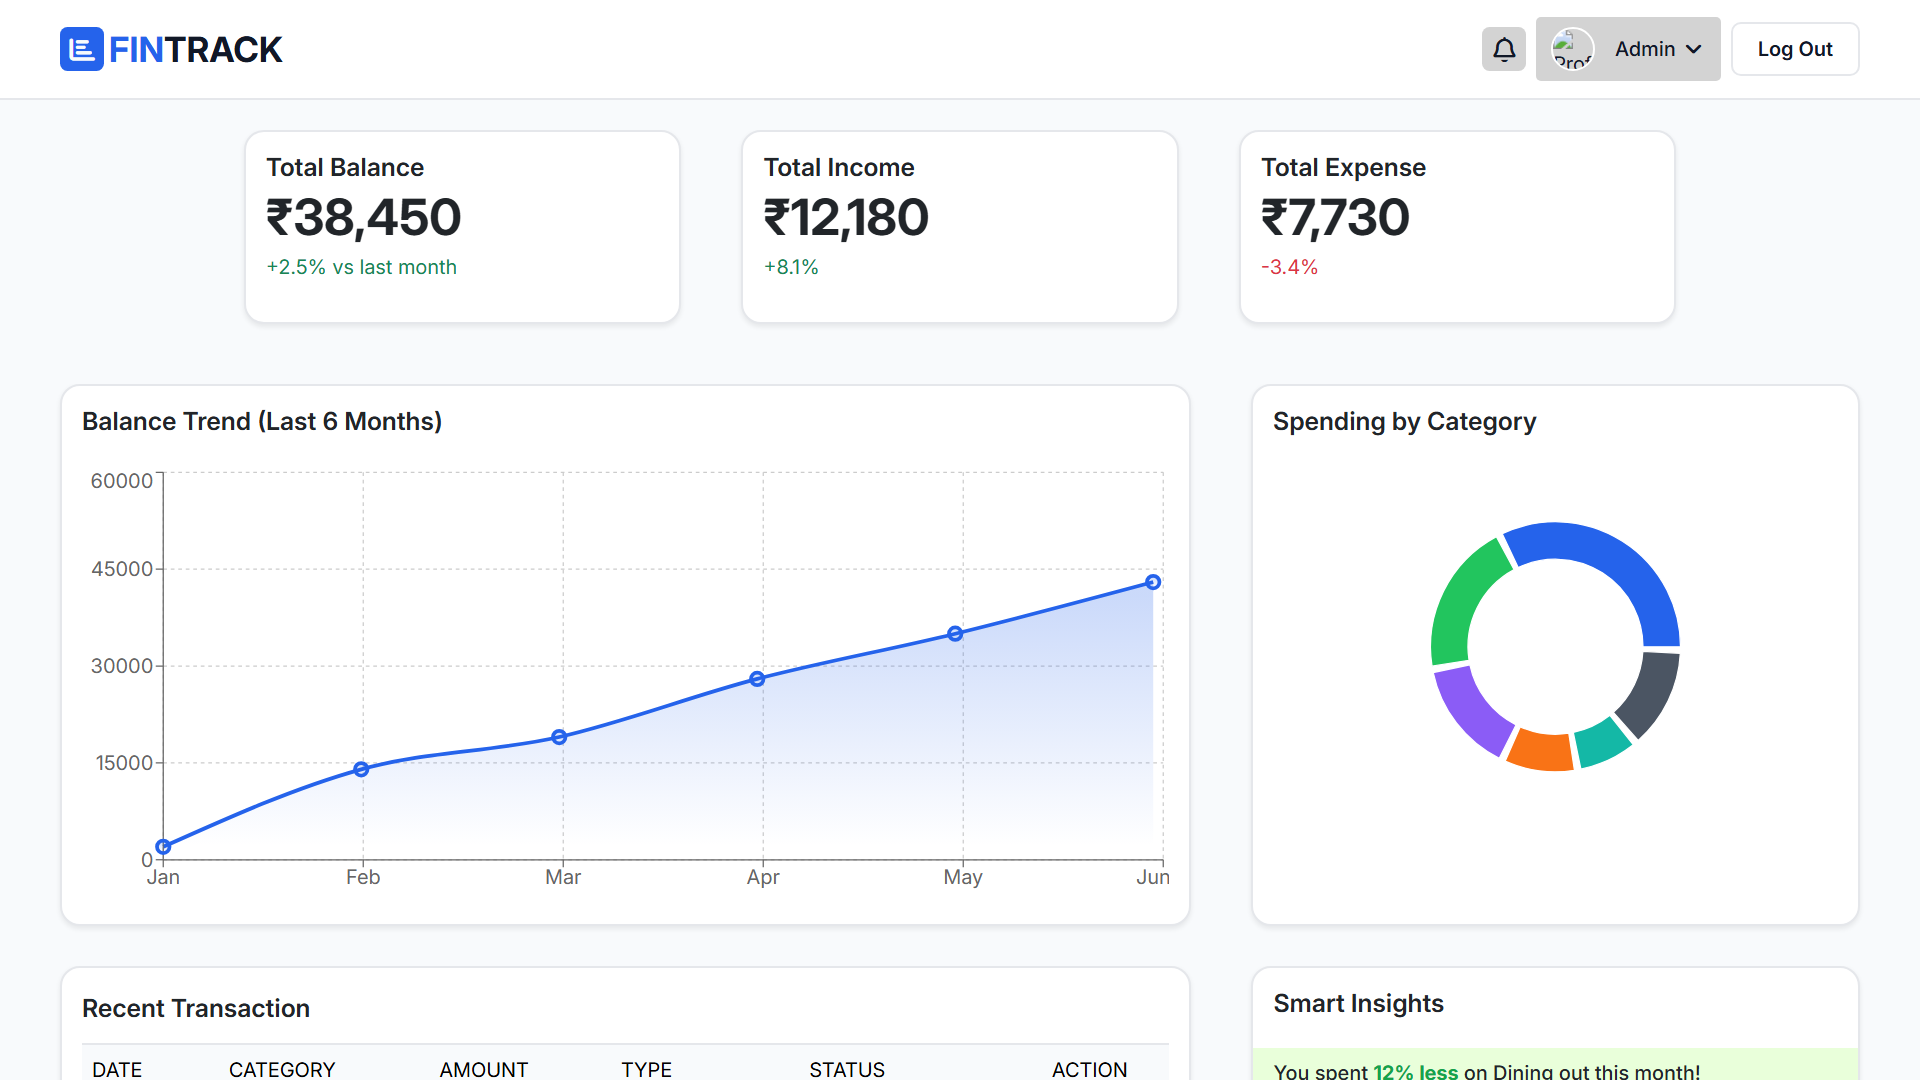
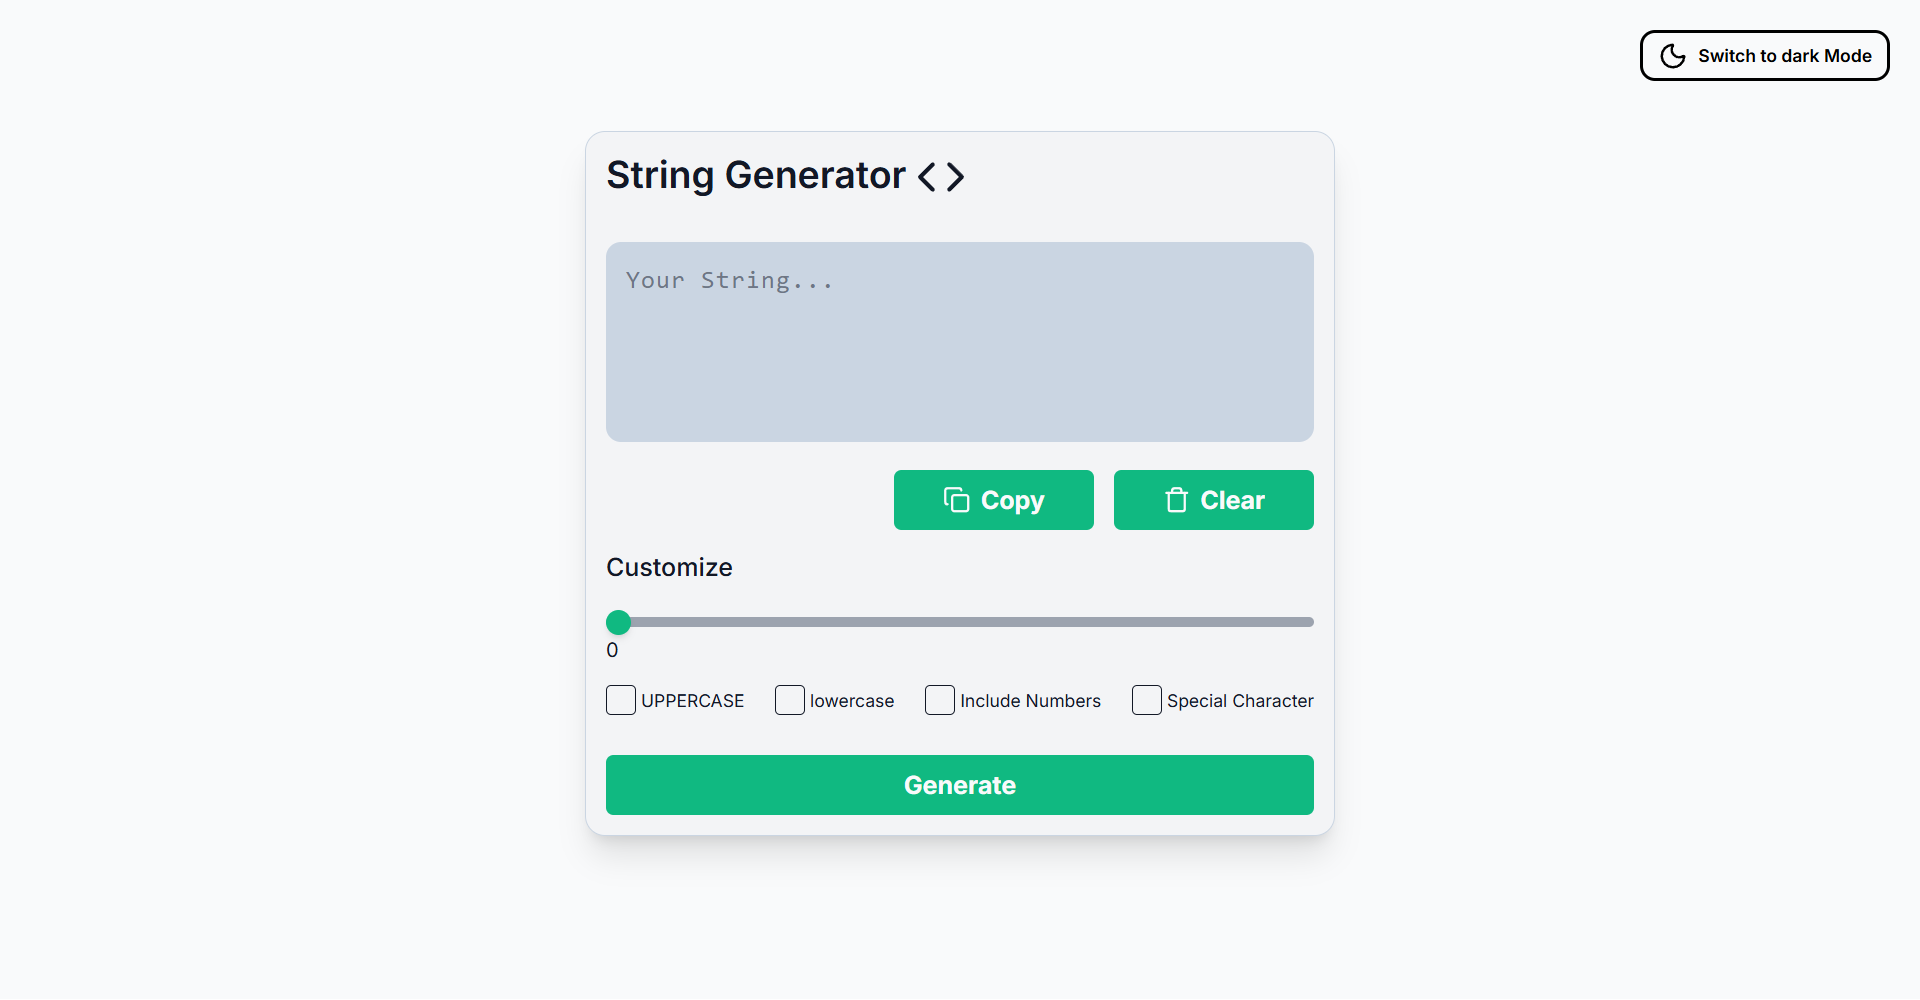
Project Updated

diff --git a/src/components/Project.jsx b/src/components/Project.jsx
@@ -12,19 +12,20 @@ const Project = () => {
           </div>
 
           <div className='col-lg-6 align-content-center mt-4 mt-lg-0'>
-            <h4 className='fw-medium px-3 px-md-0'>Zenith Task</h4>
-            <p className='project-p px-3 px-md-0'>A sleek, interactive task management application featuring a modern glassmorphism UI. Built to handle dynamic state filtering and 
-              persistent local storage, ensuring a seamless user experience.</p>
+            <h4 className='fw-medium px-3 px-md-0'>Translator App</h4>
+            <p className='project-p px-3 px-md-0'>A modern, fully responsive text translation application built during my Frontend Development 
+              internship. The project converts English text into multiple global languages in real-time by integrating an external translation 
+              engine via RapidAPI.</p>
 
             <div className='d-flex gap-3 project-tag'>
               <p className='text-center align-content-center fs-7'>React.js</p>
-              <p className='text-center align-content-center fs-7'>Bootstrap</p>
-              <p className='text-center align-content-center fs-7'>Local Storage</p>
+              <p className='text-center align-content-center fs-7'>Tailwind Css</p>
+              <p className='text-center align-content-center fs-7'>Rapid API</p>
             </div>
 
             <div className='d-flex gap-3'>
-              <button><a style={{color: "var(--text)"}} href='https://reacttodolist-sriram.netlify.app/' target='_blank' rel='noopener noreferrer'>Live Demo</a></button>
-              <button><a style={{color: "var(--text)"}} href='https://github.com/SriramKannanV/React-To-Do-List' target='_blank' rel='noopener noreferrer'>GitHub</a></button>
+              <button><a style={{color: "var(--text)"}} href='https://translatorapp-sriram.netlify.app/' target='_blank' rel='noopener noreferrer'>Live Demo</a></button>
+              <button><a style={{color: "var(--text)"}} href='https://github.com/SriramKannanV/Translator-App' target='_blank' rel='noopener noreferrer'>GitHub</a></button>
             </div>
           </div>
         </div>
@@ -35,19 +36,20 @@ const Project = () => {
           </div>
 
           <div className='col-lg-6 align-content-center mt-4 mt-lg-0'>
-            <h4 className='fw-medium text-start text-lg-end px-3 px-md-0'>FinTrack</h4>
-            <p className='project-p text-start text-lg-end px-3 px-md-0'>A comprehensive financial tracking dashboard. It processes complex data to visualize income, 
-              expenses, and category-wise spending trends dynamically through interactive charts and clean data tables.</p>
+            <h4 className='fw-medium text-start text-lg-end px-3 px-md-0'>String Generator</h4>
+            <p className='project-p text-start text-lg-end px-3 px-md-0'>A modern, responsive random string and password generator built using 
+              React, Vite, and Tailwind CSS. Implements optimized state management with core React hooks (useState, useCallback, useEffect), 
+              UI context state persistence, and clean CSS-in-JS customization.</p>
 
             <div className='d-flex gap-3 project-tag justify-content-start justify-content-lg-end'>
               <p className='text-center align-content-center fs-7'>React.js</p>
-              <p className='text-center align-content-center fs-7'>Bootstrap</p>
-              <p className='text-center align-content-center fs-7'>Chart.Js</p>
+              <p className='text-center align-content-center fs-7'>Tailwind Css</p>
+              <p className='text-center align-content-center fs-7'>Local Storage</p>
             </div>
 
             <div className='d-flex gap-lg-3 justify-content-start justify-content-lg-end'>
-              <button><a style={{color: "var(--text)"}} href='https://sriram-fintrack.netlify.app/' target='_blank' rel='noopener noreferrer'>Live Demo</a></button>
-              <button><a style={{color: "var(--text)"}} href='https://github.com/SriramKannanV/FinTrack' target='_blank' rel='noopener noreferrer'>GitHub</a></button>
+              <button><a style={{color: "var(--text)"}} href='https://sriram-string-generator.netlify.app/' target='_blank' rel='noopener noreferrer'>Live Demo</a></button>
+              <button><a style={{color: "var(--text)"}} href='https://github.com/SriramKannanV/String-Generator' target='_blank' rel='noopener noreferrer'>GitHub</a></button>
             </div>
           </div>
         </div>

diff --git a/src/components/Contact.jsx b/src/components/Contact.jsx
@@ -52,7 +52,7 @@ const Contact = () => {
 
               <div className="d-flex gap-2 align-items-center mb-3">
                 <FaLinkedin className="contact-icon"/>
-                <p className="mb-0">linkedin.com</p>
+                <a href="https://www.linkedin.com/in/sriram-kannan-v-11jan2005/">LinkedIn</a>
               </div>
             </div>
           </div>

diff --git a/src/components/Skills.jsx b/src/components/Skills.jsx
@@ -25,6 +25,7 @@ const Skills = () => {
             <p className='text-center align-content-center'>Git & GitHub</p>
             <p className='text-center align-content-center'>Figma</p>
             <p className='text-center align-content-center'>RESTful APIs</p>
+            <p className='text-center align-content-center'>Tailwind Css</p>
           </div>
         </div>
       </div>